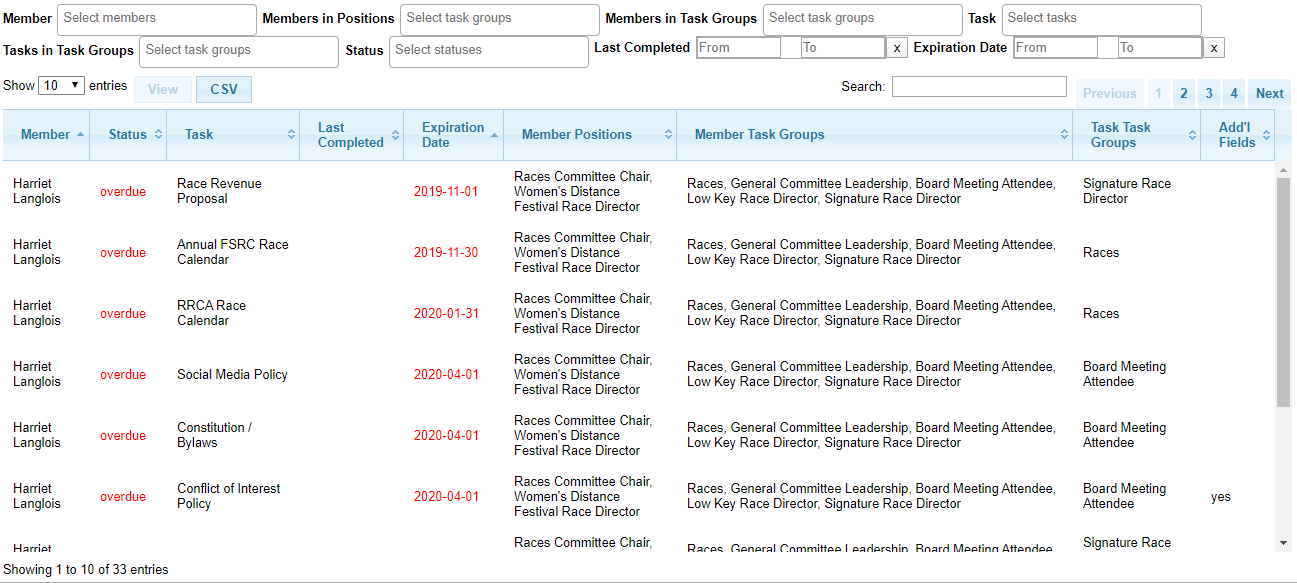
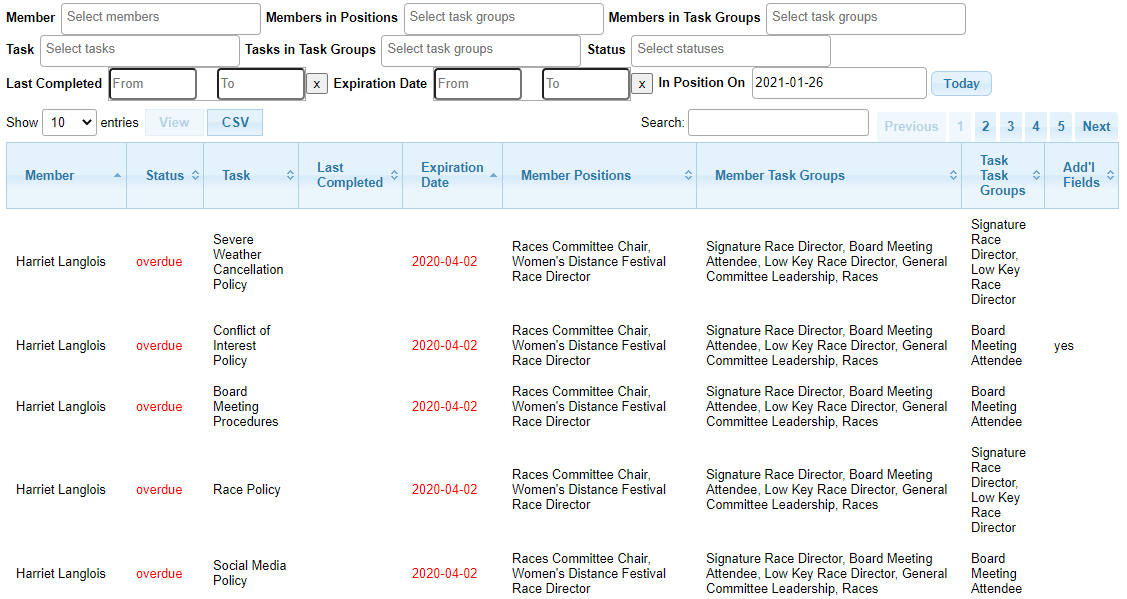
Task Details view: adds In Position On filtering (#322)

diff --git a/members/static/admin/afterdatatables.js b/members/static/admin/afterdatatables.js
@@ -174,6 +174,9 @@ function afterdatatables() {
 
     // special processing for task details
     } else if (location.pathname.includes('/taskdetails')) {
+        // handle effective date update by retrieving data by /rest and refreshing table
+        set_effective_date('#effective-date', '#todays-date-button');
+
         // set up registered filters (id, default for local storage, transient => don't update local storage
         fltr_register('members-external-filter-members', null, true);
         fltr_register('members-external-filter-positions-by-member', null, true);

diff --git a/members/static/style.css b/members/static/style.css
@@ -383,6 +383,18 @@ h1 .select2-selection__rendered {
     color: #377ba8 !important;
 }
 
+/* mimic select2 sizing */
+.like-select2-sizing {
+    /* match select2-container--default */
+    background-color: white;
+    border: 1px solid #aaa;
+    border-radius: 4px;
+    cursor: text;
+    /* match select2-container */
+    box-sizing: border-box;
+    min-height: 32px;
+}
+
 /* hidden row display */
 table.dataTable tbody tr.hidden-row:not(.selected) {
     background-color: Peru;

diff --git a/members/views/admin/leadership_tasks_admin.py b/members/views/admin/leadership_tasks_admin.py
@@ -10,6 +10,7 @@ from re import match
 from flask import g, url_for, request
 from flask_security import current_user
 from slugify import slugify
+from dominate.tags import input, button
 
 # homegrown
 from . import bp
@@ -544,12 +545,11 @@ class TaskDetails(DbCrudApiInterestsRolePermissions):
         tasksmembers = []
         for member in members:
             # collect all the tasks which are referenced by positions and taskgroups for this member
-            # todo: #322 use effective date to retrieve positions for member
-            tasks = get_member_tasks(member['localuser'], date.today())
+            ondate = request.args.get('ondate', date.today())
+            tasks = get_member_tasks(member['localuser'], ondate)
 
             # create/add taskmember to list for all tasks
-            # todo: #322 use effective date to retrieve positions for member
-            active_positions = positions_active(member['localuser'], date.today())
+            active_positions = positions_active(member['localuser'], ondate)
             for task in iter(tasks):
                 membertaskid = self.setid(member['localuser'].id, task.id)
                 taskmember = TaskMember(
@@ -590,18 +590,17 @@ class TaskDetails(DbCrudApiInterestsRolePermissions):
 
         member = {'localuser': luser, 'member': User.query.filter_by(id=luser.user_id).one()}
 
+        ondate = request.args.get('ondate', date.today())
         taskmember = TaskMember(
             id=thisid,
             task=task, task_taskgroups=task.taskgroups,
             member=member['member'],
-            # todo: #322 use effective date to retrieve positions for member
-            member_positions=positions_active(member['localuser'], date.today()),
+            member_positions=positions_active(member['localuser'], ondate),
         )
 
         # drill down to get all the taskgroups
         member_taskgroups = set()
-        # todo: #322 use effective date to retrieve positions for member
-        for position in positions_active(member['localuser'], date.today()):
+        for position in positions_active(member['localuser'], ondate):
             get_position_taskgroups(position, member_taskgroups)
         for taskgroup in member['localuser'].taskgroups:
             get_taskgroup_taskgroups(taskgroup, member_taskgroups)
@@ -618,6 +617,7 @@ class TaskDetails(DbCrudApiInterestsRolePermissions):
         '''
         theseids = ids.split(',')
         responsedata = []
+        ondate = request.args.get('ondate', date.today())
         for thisid in theseids:
             # id is made up of localuser.id, task.id
             localuserid, taskid = self.getids(thisid)
@@ -630,8 +630,7 @@ class TaskDetails(DbCrudApiInterestsRolePermissions):
                 id=thisid,
                 task=task, task_taskgroups=task.taskgroups,
                 member=member['member'],
-                # todo: #322 use effective date to retrieve positions for member
-                member_positions=positions_active(member['localuser'], date.today()),
+                member_positions=positions_active(member['localuser'], ondate),
                 member_taskgroups=member['localuser'].taskgroups,
             )
 
@@ -679,14 +678,19 @@ def taskdetails_validate(action, formdata):
     return results
 
 taskdetails_filters = filtercontainerdiv()
-taskdetails_filters += filterdiv('members-external-filter-members', 'Member')
-taskdetails_filters += filterdiv('members-external-filter-positions-by-member', 'Members in Positions')
-taskdetails_filters += filterdiv('members-external-filter-taskgroups-by-member', 'Members in Task Groups')
-taskdetails_filters += filterdiv('members-external-filter-tasks', 'Task')
-taskdetails_filters += filterdiv('members-external-filter-taskgroups-by-task', 'Tasks in Task Groups')
-taskdetails_filters += filterdiv('members-external-filter-statuses', 'Status')
-taskdetails_filters += filterdiv('members-external-filter-completed', 'Last Completed')
-taskdetails_filters += filterdiv('members-external-filter-expires', 'Expiration Date')
+with taskdetails_filters:
+    filterdiv('members-external-filter-members', 'Member')
+    filterdiv('members-external-filter-positions-by-member', 'Members in Positions')
+    filterdiv('members-external-filter-taskgroups-by-member', 'Members in Task Groups')
+    filterdiv('members-external-filter-tasks', 'Task')
+    filterdiv('members-external-filter-taskgroups-by-task', 'Tasks in Task Groups')
+    filterdiv('members-external-filter-statuses', 'Status')
+    filterdiv('members-external-filter-completed', 'Last Completed')
+    filterdiv('members-external-filter-expires', 'Expiration Date')
+    datefilter = filterdiv('positiondate-external-filter-startdate', 'In Position On')
+    with datefilter:
+        input(type='text', id='effective-date', name='effective-date', _class='like-select2-sizing')
+        button('Today', id='todays-date-button')
 
 taskdetails_yadcf_options = [
     yadcfoption('member:name', 'members-external-filter-members', 'multi_select', placeholder='Select members', width='200px'),

diff --git a/members/views/admin/viewhelpers.py b/members/views/admin/viewhelpers.py
@@ -376,7 +376,6 @@ def get_tags_users(tags, users, ondate):
     # collect all the users which have the indicated tags
     for tag in tags:
         for position in tag.positions:
-            # todo: #322 use effective date to retrieve positions for member
             for member in members_active(position, ondate):
                 users.add(member)
         for user in tag.users:

diff --git a/docs/leadership-task-admin-reference.rst b/docs/leadership-task-admin-reference.rst
@@ -188,6 +188,9 @@ The view has the following filters:
     :Expiration Date:
         chooses the date range for the expiration date, can set start, finish or both
 
+    :In Position On:
+        date of interest for which :term:`members <member>` hold :term:`positions <position>`
+
 .. image:: images/task-details-view.*
     :align: center
 
